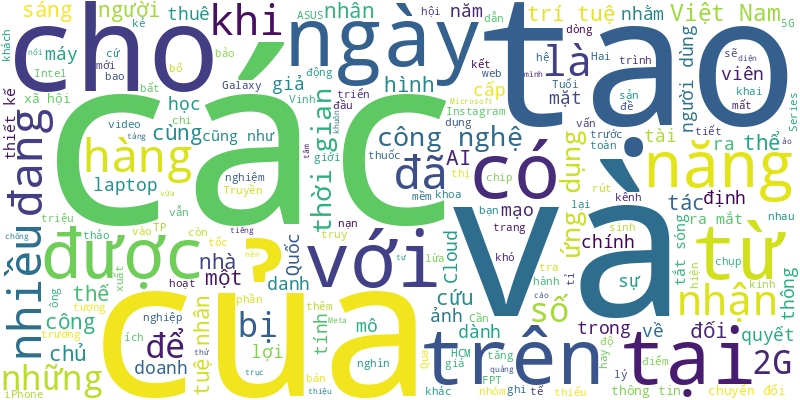
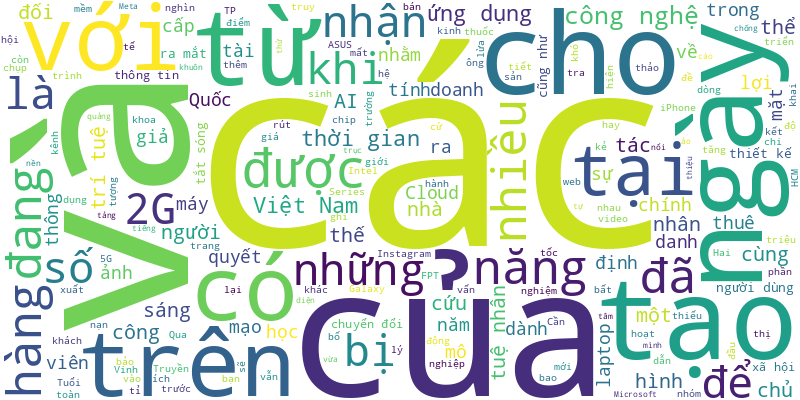
🍀 = 90%

diff --git a/README.md b/README.md
@@ -1,6 +1,16 @@
 # Tuoi Tre RSS 
 
 ## Giáo dục 
+- Trong giờ ra chơi, ba nam sinh lớp 10 tại Bến Tre xúm lại đánh hội đồng một bạn nam cùng lớp khiến nạn nhân phải nhập viện sau đó.
+- Với khả năng theo dõi hành vi của côn trùng ở tốc độ cao, hệ thống này giúp nghiên cứu về sự suy giảm quần thể côn trùng, đa dạng sinh học hoặc phát triển robot lấy cảm hứng từ côn trùng.
+- Một nam sinh lớp 9 ở Nghệ An bị bạn cùng trường ép ăn đất, hút thuốc lá trong đêm rồi quay clip tung lên mạng xã hội.
+- Trường đại học Đông Á đã có quyết định về việc thôi giữ chức vụ phó hiệu trưởng đối với PGS.TS Hoàng Anh Tuấn.
+- Bộ Giáo dục và Đào tạo đang lấy ý kiến về 5 đối tượng được tuyển thẳng vào lớp 10.
+- Ông Trần Ngọc Hà, cựu hiệu trưởng Trường phổ thông dân tộc bán trú tiểu học Hoàng Thu Phố 1 (huyện Bắc Hà, Lào Cai), bị khởi tố, bắt tạm giam sau vụ cắt xén bữa ăn bán trú.
+- Sở Nội vụ Quảng Bình rà soát và phát hiện có 3 viên chức của tỉnh này sử dụng chứng chỉ ngoại ngữ giả do tổ chức Cambridge International cấp.
+- Chỉ cần một máy tính có kết nối mạng là một người đã có thể mở lớp dạy IELTS online, nhiều trung tâm truyền thống gặp phải không ít khó khăn.
+- Sở Giáo dục và Đào tạo TP.HCM vừa có văn bản yêu cầu xử lý sai phạm về thu chi của ban đại diện cha mẹ học sinh ở một số trường.
+- Một số tin tức đáng chú ý: Phê duyệt 36 trạm dừng nghỉ trên cao tốc Bắc - Nam; TP.HCM kiểm tra, chấn chỉnh lạm thu quỹ phụ huynh; Phạt phòng khám quảng cáo 'nổ'...
 - Ông Bùi Văn Huân, hiệu trưởng Trường phổ thông dân tộc nội trú THCS và THPT thị xã Sa Pa (Lào Cai), bị tạm đình chỉ để kiểm tra, xác minh làm rõ phản ánh về tồn tại, hạn chế trong công tác quản lý của hiệu trưởng.
 - Sau khi phát hiện vi phạm tuyển sinh, chế độ đối với học sinh trường phổ thông dân tộc nội trú ở một số huyện, Sở Giáo dục và Đào tạo Thanh Hóa đã tiến hành kiểm tra, rà soát hoạt động của tất cả trường nội trú.
 - Chủ tịch Hội đồng trường Trường đại học Thủ Dầu Một, tỉnh Bình Dương cho biết sẽ trả lại sinh viên 37 tỉ đồng học phí thu vượt mức, trước đó đã được nộp vào ngân sách.
@@ -21,48 +31,38 @@
 - Cô giáo Trương Phương Hạnh bị xử lý kỷ luật ở mức cảnh cáo và không được đứng lớp, chuyển sang làm giáo vụ của trường.
 - Các quan chức khẳng định thực phẩm và đồ uống được cung cấp trong trường học cần phải được sản xuất bằng các nguyên liệu tự nhiên, và phải loại bỏ đồ ăn vặt.
 - Sinh viên khoa truyền thông sáng tạo của Trường đại học Nguyễn Tất Thành có một buổi thực hành tác nghiệp ảnh báo chí thú vị tại Bưu điện TP.HCM.
-- Mức điểm sàn nhận hồ sơ xét tuyển bổ sung vào các trường quân đội dao động từ 10,75 - 28,55 điểm, thang điểm 30 và đã bao gồm điểm ưu tiên.
-- Sau khi va quẹt xe máy ngã xuống đường, một nam sinh dùng mũ bảo hiểm đánh tới tấp nam sinh khác.
-- Việc trường học mời phụ huynh "mục sở thị" bữa ăn bán trú cần được lan tỏa và nhân rộng. Tại sao?
-- Thông tin được đưa ra trong Ngày hội du học New Zealand 2024, diễn ra vào sáng nay 19-10.
-- Nhiều học sinh, sinh viên và phụ huynh tại TP.HCM đến tuần lễ Giáo dục châu Âu để tìm hiểu về trường, học bổng và những chính sách du học phù hợp.
-- Trường đại học Y Dược TP.HCM đã chính thức có hiệu trưởng sau 4 năm nhà trường khuyết chức danh này.
-- Những ngày qua, mạng xã hội xôn xao đoạn tin nhắn của cô giáo đề cập chuyện tặng quà giáo viên nhân Ngày Phụ nữ Việt Nam (20-10).
-- Kỳ thi lớp 10 gồm ba môn toán, ngữ văn và một môn thi thứ ba hoặc bài thi tổ hợp do sở giáo dục và đào tạo lựa chọn và được công bố trước ngày 31-3 hằng năm.
-- Để đảm bảo tiến độ thực hiện kết luận kiểm toán, Trường đại học Thủ Dầu Một, tỉnh Bình Dương đã nộp 37 tỉ đồng học phí thu vượt vào ngân sách, nhưng nay sẽ được xem xét hoàn trả cho sinh viên.
-- Giáo viên nhận xét ra sao về đề tham khảo thi tốt nghiệp THPT từ năm 2025?
 ![Edu](Edu.png)
 ## Thời Sự 
-- Với việc giá cát bị đẩy lên mức hơn 2,3 triệu đồng/m³ trong vụ đấu giá mới đây, nhiều doanh nghiệp cho rằng có hiện tượng lợi dụng đấu thầu để 'thổi giá' cát.
-- Về tình trạng hàng rong tràn xuống lòng đường Hoàng Hoa Thám (TP Huế) từ 22h, UBND TP Huế đã có chỉ đạo lập một tuyến phố đi bộ ẩm thực mới.
-- Trước đây, người dân tại TP.HCM xin cấp định mức nước thông qua sổ hộ khẩu. Hiện nay sổ hộ khẩu đã được thay thế bằng mã định danh cá nhân.
-- Theo Chính phủ, bão số 3 (bão Yagi) dị thường, có sức tàn phá rất lớn, với các đặc điểm chưa có trong tiền lệ, gây thiệt hại kinh tế hơn 81.700 tỉ đồng.
-- Bộ Lao động - Thương binh và Xã hội sẽ trình Thủ tướng phương án nghỉ Quốc khánh, dịp 30-4 và 1-5 sau khi tổng hợp ý kiến các bên liên quan.
-- Trong đêm qua và rạng sáng nay (23-10), cường độ bão Trà Mi (bão Trami) cấp 9 (75-88km/h), giật cấp 11 (103-117km/h). Dự báo khi vào Biển Đông, cơn bão số 6 sẽ tiếp tục tăng cấp.
-- Tại chương trình “Hướng về biên giới - biển đảo Tổ quốc” đã có 79 đơn vị, cá nhân ủng hộ quỹ "Vì biển đảo quê hương - Vì tuyến đầu Tổ quốc" với tổng số tiền hơn 35,3 tỉ đồng.
-- Một số tin tức đáng chú ý: Phê duyệt 36 trạm dừng nghỉ trên cao tốc Bắc - Nam; TP.HCM kiểm tra, chấn chỉnh lạm thu quỹ phụ huynh; Phạt phòng khám quảng cáo 'nổ'...
-- Sáng 23-10, Thủ tướng Phạm Minh Chính lên chuyên cơ rời Hà Nội, bắt đầu các hoạt động trong khuôn khổ Hội nghị các nhà lãnh đạo nhóm BRICS mở rộng tại Nga.
-- Hôm nay 23-10, thời tiết Trung Bộ mưa to đến rất to. Bắc Bộ mát mẻ do ảnh hưởng không khí lạnh, Nam Bộ mưa rào.
-- Triều cường kèm mưa lớn kéo dài, nước từ đường chảy tràn vào hầm 3 chung cư ở phường Tân Hưng Thuận, quận 12, TP.HCM khiến hơn 100 xe máy, 3 ô tô bị nhấn chìm.
-- Chiều 22-10, Bộ chỉ huy Bộ đội biên phòng tỉnh Sơn La (Việt Nam) phối hợp với Công an, Bộ chỉ huy quân sự tỉnh Hủa Phăn (Lào) tổ chức diễn tập liên hợp đánh bắt tội phạm ma túy qua biên giới Việt Nam - Lào.
-- Ông Bùi Văn Huân, hiệu trưởng Trường phổ thông dân tộc nội trú THCS và THPT thị xã Sa Pa (Lào Cai), bị tạm đình chỉ để kiểm tra, xác minh làm rõ phản ánh về tồn tại, hạn chế trong công tác quản lý của hiệu trưởng.
-- Chi cục Kiểm lâm TP.HCM vừa tiếp nhận con tê tê Java được phát hiện tại Trung tâm Công nghệ sinh học TP.HCM.
-- Chủ quán bị tố bán bánh cuốn có miếng chả có dòi chủ động muốn bồi thường khi nhận phản ánh từ thực khách, nhưng khi cơ quan chức năng đến kiểm tra lại nói hình ảnh miếng chả đó không phải của quán mình.
-- Dự báo chiều 24-10, bão Trami (bão Trà Mi) đi vào Biển Đông, Bộ Nông nghiệp và Phát triển nông thôn yêu cầu các tỉnh, thành ven biển từ Quảng Ninh đến Bình Thuận thông báo ngay cho các tàu thuyền di chuyển đến nơi an toàn.
-- Bộ Lao động - Thương binh và Xã hội sẽ trình Thủ tướng phương án nghỉ Tết kéo dài 9 ngày.
-- Gỏi tôm bông súng, salad cà xỉu, gỏi cuốn ghẹ và cá mú cuộn nấm tràm... là những món ăn được đầu bếp sáng tạo kết hợp nhiều nguyên liệu rau củ khác nhau tạo nên hương vị ẩm thực đặc trưng vùng biên giới TP Hà Tiên (Kiên Giang).
-- Thủ tướng Phạm Minh Chính yêu cầu đưa Halal Việt Nam trở thành một ngành thế mạnh, biến nước ta thành một mắt xích quan trọng trong chuỗi cung ứng Halal toàn cầu.
-- Chiều 22-10, Đại tướng Phan Văn Giang và Đại tướng Chansamone Chanyalath đã có buổi hội đàm và ký kết trong khuôn khổ Giao lưu hữu nghị quốc phòng biên giới Việt Nam - Lào lần thứ 2 tại Mộc Châu, Sơn La.
-- Đường Trần Hưng Đạo (phường Dương Đông, TP Phú Quốc) có nhiều nắp cống bị mất, có chỗ cắm cây tạm bợ, gây mất mỹ quan đô thị.
-- Cơ quan cảnh sát điều tra Công an quận 4 (TP.HCM) đã ra quyết định tạm giữ hình sự bà Trần Thị Kim Giàu về tội hành hạ con.
-- TP.HCM vừa ban hành bảng giá đất mới, từ đó việc điều chỉnh tăng giá đất thương mại dịch vụ, sản xuất kinh doanh ra sao?
-- Chiều 22-10, Giao lưu hữu nghị quốc phòng biên giới Việt Nam - Lào lần thứ hai chính thức bắt đầu với lễ đón đoàn đại biểu Lào tại cửa khẩu Lóng Sập, huyện Mộc Châu, tỉnh Sơn La.
-- Dự báo sau khi vào Biển Đông, gió bão Trami có thể đạt cấp 12 (118 - 133km/h), giật cấp 15 (167 - 183km/h) và miền Trung khả năng có mưa lớn do ảnh hưởng của bão số 6.
-- Chưa được cấp giấy phép hành nghề và đang tham gia thực hành tại Bệnh viện Từ Dũ (TP.HCM), bác sĩ T.V.D. bị phát hiện đã tham gia khám chữa bệnh tại phòng khám sản phụ khoa Mary Tân Phú.
-- UBND tỉnh Gia Lai thống nhất chuyển hồ sơ vụ phòng khám chui có bác sĩ giả tại TP Pleiku sang Cơ quan điều tra Công an tỉnh để điều tra làm rõ.
-- Sáng 22-10, đại diện Trung tâm Quản lý hạ tầng giao thông đường bộ Sở Giao thông vận tải TP.HCM cho biết sẽ thu hẹp xong vòng xoay Phú Hữu trước ngày 30-10.
-- Nhiều tháng qua, giới ngân hàng dậy sóng khi bà Tr., là cán bộ ngân hàng thương mại, bị tố cáo lừa đảo hơn 15 tỉ đồng.
-- Việc Thủ tướng Phạm Minh Chính dự Hội nghị BRICS mở rộng tại Nga cho thấy tinh thần trách nhiệm, cũng như vị thế, tầm vóc của Việt Nam trong thúc đẩy chủ nghĩa đa phương.
+- Trong lúc đi dọc bờ biển, người dân ở Hà Tĩnh phát hiện hai thi thể trôi dạt vào bờ nên nhanh chóng thông báo với chính quyền địa phương.
+- Quận Tân Bình lên lịch họp giải quyết đơn của ông Bùi Mộc về việc sớm cấp sổ hồng trong khi bảng giá đất mới của TP.HCM sắp có hiệu lực (31-10).
+- Sự mập mờ trong việc sử dụng tên gọi “bệnh viện” của các phòng khám tư nhân hiện là một vấn đề đặt ra của xã hội và cần có giải pháp khắc phục kịp thời.
+- Ngày 23-10, thừa ủy quyền của Chính phủ, Bộ trưởng Bộ Tài nguyên và Môi trường Đỗ Đức Duy trình Quốc hội quyết định chủ trương điều chỉnh quy hoạch sử dụng đất quốc gia thời kỳ 2021 - 2030, tầm nhìn đến năm 2050.
+- Việc yêu cầu xăng dầu dự trữ quốc gia phải để ở bồn riêng, trong khi chi phí gửi xăng dầu dự trữ quốc gia tại kho của doanh nghiệp ở mức thấp, duy trì trong nhiều năm đang gây khó khăn cho nhiều doanh nghiệp.
+- Tổng Bí thư, Chủ tịch nước Trung Quốc Tập Cận Bình khẳng định như trên trong cuộc gặp ngắn với Thủ tướng Phạm Minh Chính tại Nga. Cùng ngày, Thủ tướng cũng gặp lãnh đạo Lào và Thổ Nhĩ Kỳ.
+- Dự báo hôm nay (24-10), bão Trami (Trà Mi) vượt qua đảo Luzon (Philippines) đi vào Biển Đông và trở thành cơn bão số 6 trong năm 2024.
+- Bất cứ lúc nào, bất cứ là ai và bất cứ ở đâu, tài xế lái xe cấp cứu là những người 'chạy đua với tử thần' giành giật sự sống cho người bệnh.
+- Tin tức đáng chú ý: Bão Trami sẽ đi vào Biển Đông với sức gió mạnh nhất cấp 9, giật cấp 11; Đề nghị giữ quy định mức phí công đoàn 2%; Bộ Y tế xây dựng ngân hàng câu hỏi chuẩn bị kỳ thi chứng chỉ hành nghề y bác sĩ...
+- Tổng thống Nga Vladimir Putin đích thân đón Thủ tướng Phạm Minh Chính và lãnh đạo các nước khách mời khác.
+- Hôm nay 24-10, thời tiết các tỉnh Bắc Bộ chịu ảnh hưởng của không khí lạnh; Nam Bộ và Trung Bộ giảm mưa.
+- Đánh giá cao sự thành công cũng như truyền thống tự lực, tự cường của cộng đồng người Việt Nam tại Nga, Thủ tướng Phạm Minh Chính mong bà con tiếp tục đoàn kết, hỗ trợ lẫn nhau trong bất kỳ hoàn cảnh nào.
+- Tối 23-10, một trận động đất có độ lớn 3,7 xảy ra tại khu vực huyện Kon Plông, tỉnh Kon Tum.
+- Thông điệp được Phó thủ tướng Nga Alexander Novak nêu ra khi gặp Thủ tướng Phạm Minh Chính tại Kazan ngày 23-10, nhân dịp người đứng đầu Chính phủ Việt Nam sang dự hội nghị BRICS mở rộng.
+- Tối 23-10, bão Trami (bão Trà Mi) mạnh lên cấp 9-10 (75-102km/h), giật cấp 12 (108-133km/h) trước khi đổ bộ vào đảo Luzon, Philippines.
+- Báo cáo về vụ cháy chùa Phổ Quang cho biết cơ sở vật chất trong chùa thiệt hại hoàn toàn, còn bảo vật quốc gia bệ đá hoa sen bị vỡ cánh hoa sen, ước tính thiệt hại 25 tỉ đồng.
+- Dự Luật Di sản văn hóa sửa đổi đề xuất lập Quỹ bảo tồn di sản văn hóa và dùng quỹ mua, đưa di vật, cổ vật, bảo vật quốc gia... từ nước ngoài về Việt Nam.
+- Ông Võ Đình Tiến, giám đốc Sở Kế hoạch và Đầu tư tỉnh Phú Yên, bị kỷ luật cảnh cáo.
+- Quảng Nam dự kiến phương án sơ tán dân khi có bão Trami đổ bộ trực tiếp vào tỉnh này. Trong đó nếu bão mạnh, số người cần di dời, sơ tán gần 190.000 người, nếu là siêu bão thì hơn 380.000 người.
+- Không khí mua bán và trao đổi hàng hóa của ngư dân ở cảng cá phường An Thới (TP Phú Quốc, Kiên Giang) lúc nào cũng nhộn nhịp, đặc biệt chủ tàu đánh cá tất bật chuẩn bị ra khơi với hy vọng cá, mực đầy khoang.
+- Phó thủ tướng Trần Hồng Hà ký quyết định phê duyệt chủ trương đầu tư dự án đầu tư xây dựng, mở rộng đường bộ cao tốc Bắc - Nam phía Đông đoạn cao tốc Cam Lộ - La Sơn từ 2 làn xe lên 4 làn xe.
+- Bạn đọc phản ánh nhiều năm nay, đường Nguyễn Tất Thành, quận 4, TP.HCM trở thành nỗi ám ảnh của người dân do thường xuyên ùn ứ vào giờ cao điểm.
+- Dù đã có quy định, nhiều người vẫn thả rông chó, để cho chúng cắn người, gây tai nạn... Bao giờ vấn nạn chó thả rông được xử lý dứt điểm?
+- Xe nâng đang rẽ vào đường số 14D, phường Bình Hưng Hòa B, quận Bình Tân (TP.HCM) thì xảy ra va chạm với xe máy khiến một người tử vong.
+- Phòng cảnh sát ma túy Công an Đà Nẵng vừa phá thành công chuyên án, bắt nhóm người ngoại tỉnh lập hội nhóm kín trên mạng hoạt động mua bán trái phép chất ma túy loại cần sa và 'tem giấy' (còn gọi là bùa lưỡi được tẩm chất gây ảo giác).
+- Công binh tỉnh Quảng Trị di dời người dân, chặn quốc lộ 15D trong 45 phút để hủy nổ quả bom từ trường nặng 240kg nằm gần cửa khẩu quốc tế La Lay.
+- Một nam sinh lớp 9 ở Nghệ An bị bạn cùng trường ép ăn đất, hút thuốc lá trong đêm rồi quay clip tung lên mạng xã hội.
+- Tỉnh Khánh Hòa đầu tư hơn 2.000 tỉ đồng làm dự án đường ven biển từ xã Vạn Lương, huyện Vạn Ninh đi thị xã Ninh Hòa, thuộc khu kinh tế Vân Phong.
+- Với việc xây dựng văn kiện đại hội, lãnh đạo Thành ủy TP.HCM đề nghị Thủ Đức phải 'gói' được ý Đảng, lòng dân, tâm tư, tình cảm, khát vọng của nhân dân phải được đưa vào nghị quyết.
+- Nhà tang lễ Tam Kỳ (TP Tam Kỳ, Quảng Nam) được đầu tư với kinh phí hơn 10 tỉ đồng xây dựng cách đây hơn chục năm nhưng chỉ vài lần tổ chức tang lễ cho người dân, còn lại dường như đóng cửa im ỉm suốt nhiều năm qua.
 ![New](News.png)
 ## Nhịp sống số 
 - Meta thể hiện quyết tâm chống lại nạn quảng cáo trục lợi từ hình ảnh người nổi tiếng, khi thử nghiệm công nghệ nhận diện khuôn mặt trên các nền tảng của mình.
